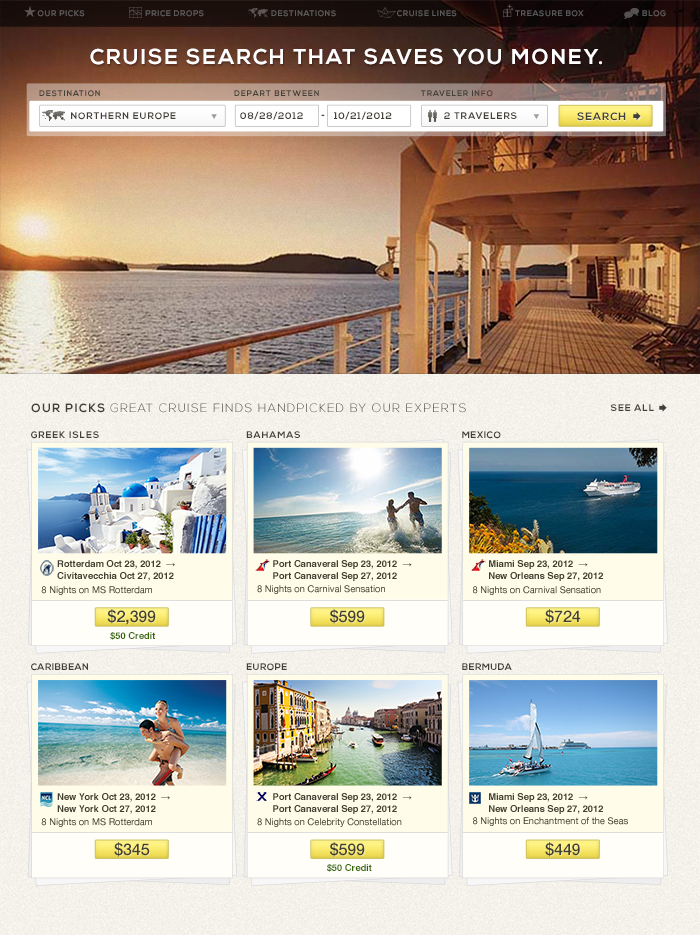
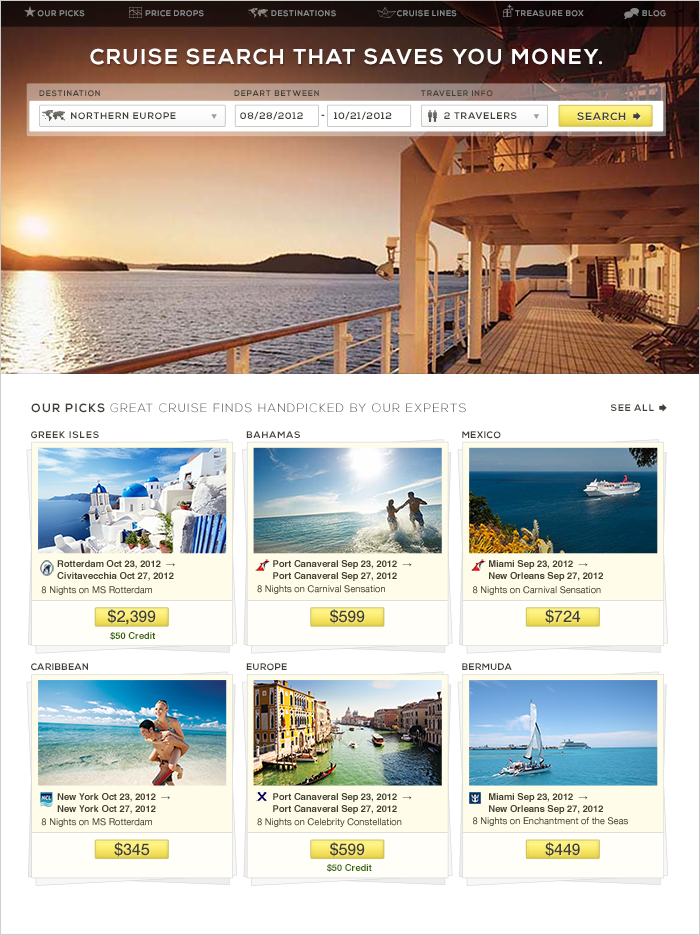
updated cw homepage images

diff --git a/cw-website.html b/cw-website.html
@@ -35,7 +35,12 @@ pageTracker._trackPageview();
 <div class="span-17">
     <h4 class="headline-small">UX and Web design for <a href="http://www.cruisewise.com" target="_blank">cruisewise.com</a></h4>
     	<p>Homepage</p>     
-    	<img src="images/cw/cw-homepage1.png" />
+    	<img src="images/cw/cw-homepage.png" />
+    	<br />
+    	<br />
+    	<br />
+		<p>Homepage (old)</p>     
+    	<img src="images/cw/cw-homepage3.png" />
     	<br />
     	<br />
     	<br />

diff --git a/talkover.html b/talkover.html
@@ -45,6 +45,7 @@ pageTracker._trackPageview();
  		<img src="images/talkover/TO2.jpg" />
         <br />
         <br />
+		<br />
         <img src="images/talkover/TO3.jpg" />
         <br />
         <br />
